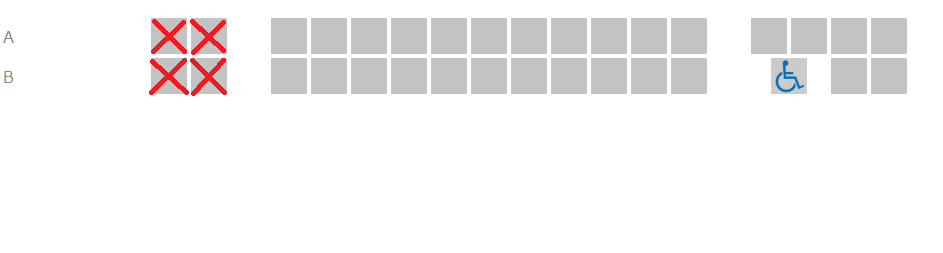
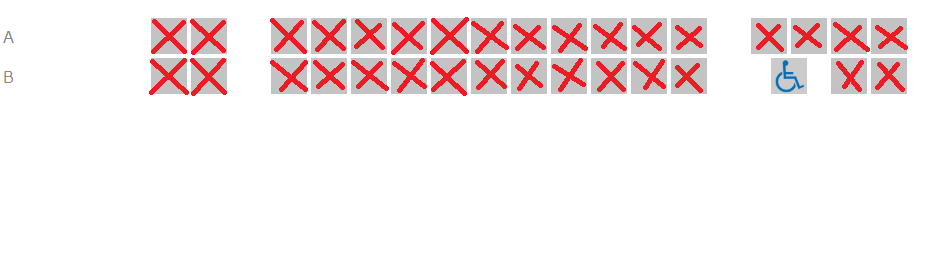
bo sung chuc nang submit

Changed region(s): [[0.2768, 0.083, 0.7688, 0.3597], [0.7996, 0.083, 0.9841, 0.1937], [0.8611, 0.249, 0.9841, 0.3597]]

diff --git a/imagemapster/index.html b/imagemapster/index.html
@@ -11,11 +11,23 @@
 		#seats{
 			width: 100%;
 		}
+		#save{
+			margin: auto;
+			width: 10%;
+		}
+		button{
+			background-color: aqua;
+			padding: 5px
+		}
 	</style>
 </head>
 <body>
 	<div id="map">
 		<img id="seats" src="seats.png" usemap="#image-map">
+		<div id="save">
+			<button onclick="saveLocation()">Save</button>
+			<button onclick="clearSession()">Clear</button>
+		</div>
 	</div>
 	<map name="image-map">
 		<area   href="#" coords="150,17,187,56" shape="rect">
@@ -66,18 +78,32 @@
 		},
 		selStates = {},
 		map = $('#seats'),
-		key = ['0', '1', '17', '18']; // các khu vực không thể click
+		listSpot = [], // danh sách các ô được chọn
+		key = ['0', '1', '17', '18'], // các ô mặc định không được chọn
+		listKey = sessionStorage.getItem("listSpot"); 
 		
+		if (listKey != null) {
+			listKey = listKey.split(','); // chuyen chuoi sang mang
+			key = key.concat(listKey);// các khu vực không thể click
+		}
+
 		function onClick(data) {
 			var cur = selStates[data.key] || 0,// khởi tạo hoặc lấy đối tượng
 			   next = (cur + 1) % 2; // các bước đi của đối tượng đó
 
 			if (key.indexOf(data.key) != -1) {
 				alert('Khu vực này đã được chọn')
-			} else if (next) {	
+			} else if (next) {
+				listSpot.push(data.key); // nếu chọn thì cho vào mảng 	
 				map.mapster('set', false , data.key);
 				map.mapster('set', true , data.key, render_select_1);
 			} else {
+				// loại khỏi mảng khi bỏ chọn
+				var spot = listSpot.indexOf(data.key);
+				if (spot != -1) {
+					listSpot.splice(spot, 1);
+				}
+
 				map.mapster('set', false , data.key);// khóa khu vực này (đưa về trạng thái ban đầu)
 			}
 			selStates[data.key] = next;
@@ -91,9 +117,26 @@
 			
 			// Load image 2	
 			// Xét những vị trí đã được chọn để load image 2
-			for (var i = 0; i < 4; i++) {
+			for (var i = 0; i < key.length; i++) {
 				map.mapster('set', true , key[i], render_select_2); // xét các vị trí 
 			}
+		}
+
+		// Lưu vào session, nếu session đã tồn tại thì lưu thêm vào các
+		// ô vừa nhập vào session(listKey) đó.
+		function saveLocation() {
+			// nếu có session trước đó thì tiếp tục cộng tiếp với mảng session đó.
+			if (listKey != null) {
+				listSpot = listSpot.concat(listKey);// cộng mảng
+			}
+			sessionStorage.setItem("listSpot", listSpot);//tạo session
+			location.reload();
+		}
+
+		// Xóa tất cả các session được lưu
+		function clearSession() {
+			sessionStorage.clear();
+			location.reload();
 		}
 
 		$(document).ready(function() {

diff --git a/imagemapster/demo1.html b/imagemapster/demo1.html
@@ -102,6 +102,7 @@
     <area href="#" state="KS" full="Kansas" shape="poly" coords="365,251,356,251,322,251,290,249,272,248,275,200,291,201,320,203,352,203,356,203,359,205,361,205,362,206,362,208,360,209,360,210,362,213,363,215,365,216,366,225,365,251">
     <area href="#" state="LA" full="Louisiana" shape="poly" coords="437,357,437,356,436,353,433,350,434,345,434,344,432,344,426,345,409,346,408,344,409,338,411,334,415,328,414,326,415,326,416,324,414,323,414,321,413,318,413,314,404,314,391,314,374,314,374,321,375,329,376,331,377,334,378,338,381,341,381,344,382,344,381,350,379,354,380,356,380,358,380,363,378,365,379,368,382,367,388,366,395,369,400,370,403,369,405,370,407,371,408,369,406,368,404,368,401,367,406,366,407,366,410,366,410,368,410,370,414,370,416,371,415,372,414,373,415,374,421,377,424,376,425,374,426,374,428,372,428,373,429,375,428,376,428,377,431,375,432,373,433,373,431,372,431,371,431,370,433,370,434,369,434,369,440,374,441,374,443,374,444,375,446,373,446,372,445,372,443,370,438,369,436,368,437,366,438,366,439,365,437,365,437,365,440,365,441,362,440,361,440,359,439,359,437,361,437,362,434,362,434,361,435,359,437,358,437,357">
 </map>
+ 
 	<script src="jquery-1.4.4.min.js"></script>
 	<script type="text/javascript" src="jquery.imagemapster.min.js"></script>
 	<script>
